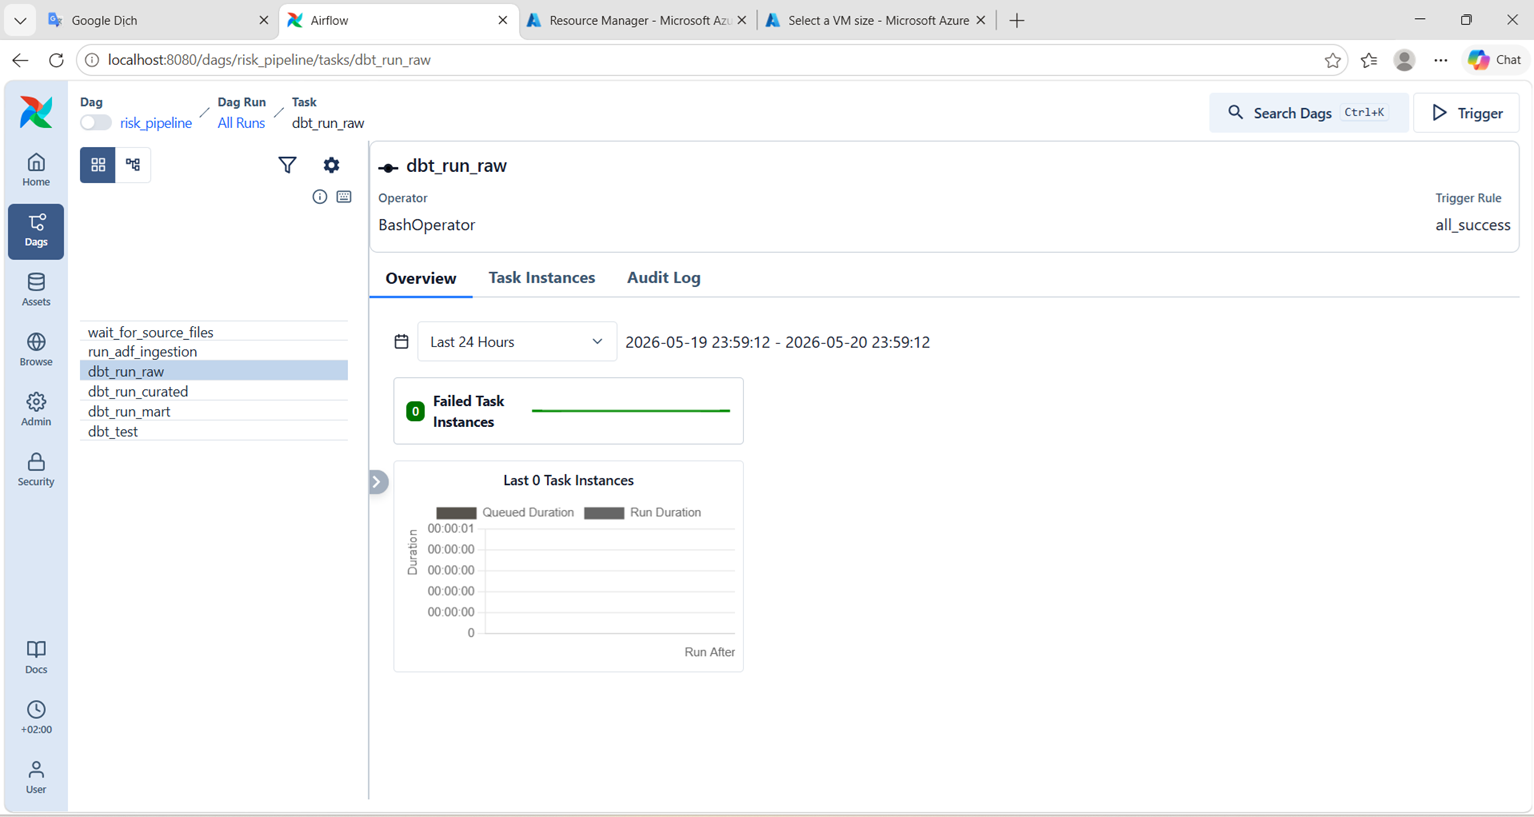
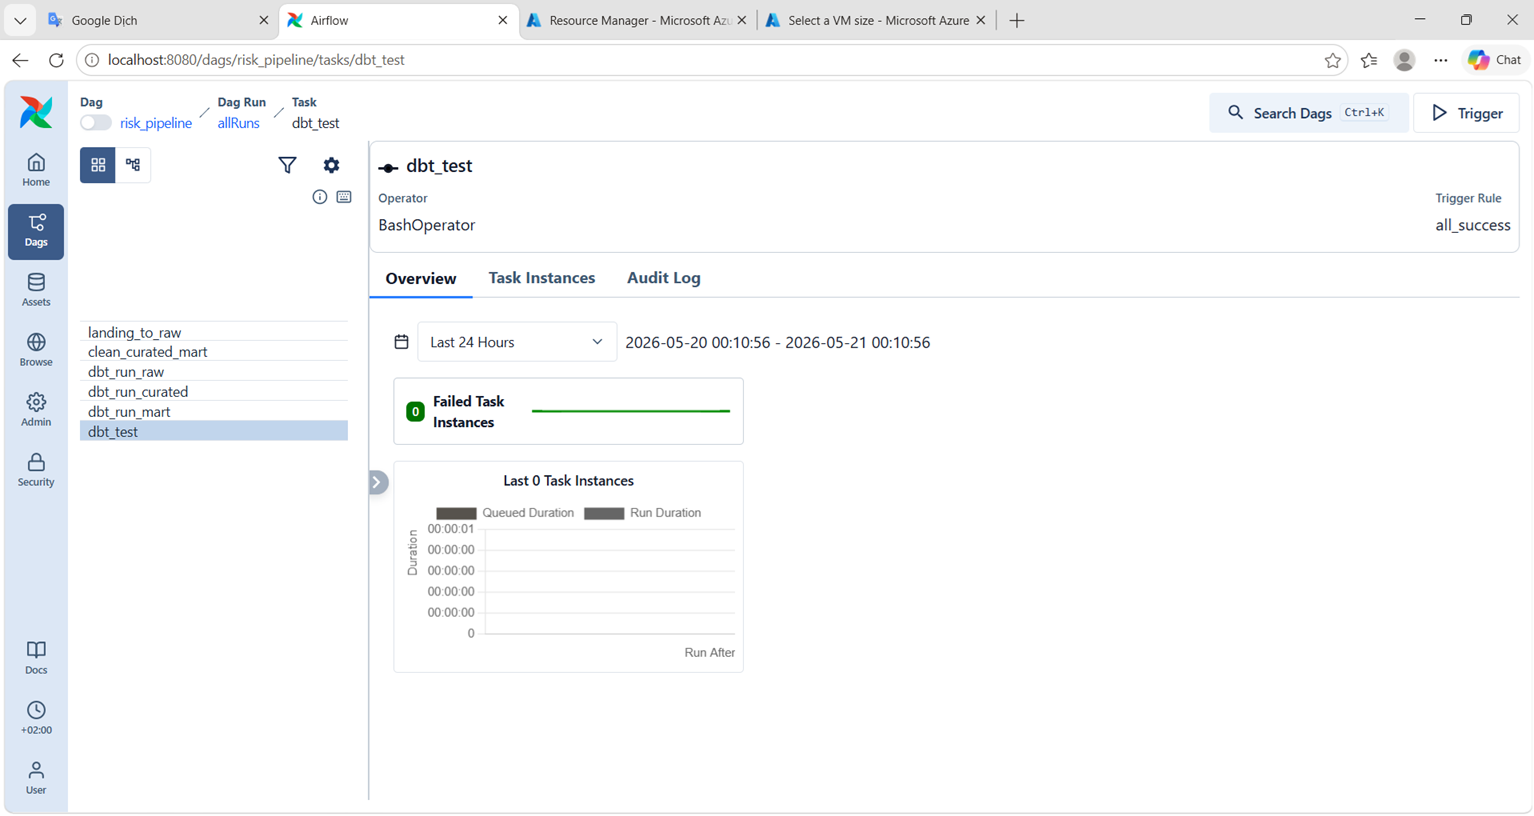
Fix DAG file failed mount

diff --git a/airflow/dags/risk_pipeline_dag.py b/airflow/dags/risk_pipeline_dag.py
@@ -43,7 +43,6 @@ with DAG(
     landing_to_raw = BashOperator(
         task_id="landing_to_raw",
         bash_command=(
-            "source /opt/airflow/dbt-env/bin/activate && "
             "python /opt/airflow/setup/landing_to_raw.py"
         ),
     )    
